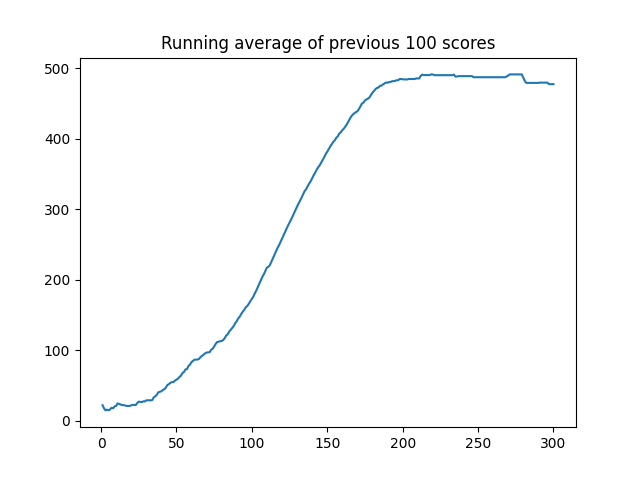
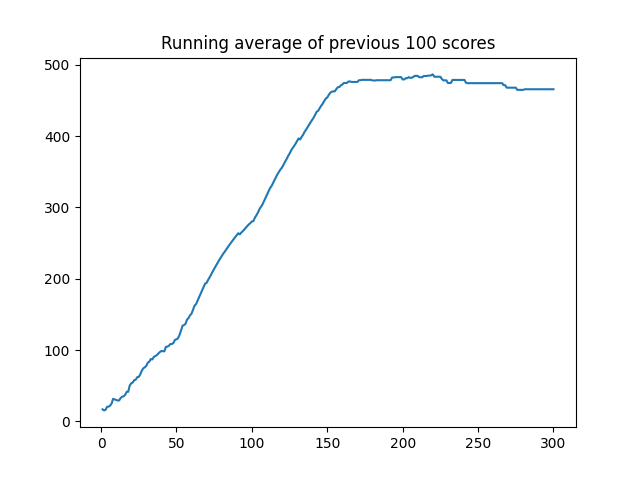
updagted checkpoints

diff --git a/train_ppo_cartpole.py b/train_ppo_cartpole.py
@@ -64,7 +64,7 @@ if __name__ == "__main__":
     best_idx = avg_score_history.index(max(avg_score_history))
     best_model = model_history[best_idx]
 
-    half_idx = min(range(len(avg_score_history)), key=lambda i: abs(avg_score_history[i] - avg_score_history[best_idx] / 3) + abs(score_history[i] - score_history[best_idx] / 3))
+    half_idx = min(range(len(avg_score_history)), key=lambda i: abs(avg_score_history[i] - avg_score_history[best_idx] / 1.5) + abs(score_history[i] - score_history[best_idx] / 1.5))
     half_model = model_history[half_idx]
 
     # save model
